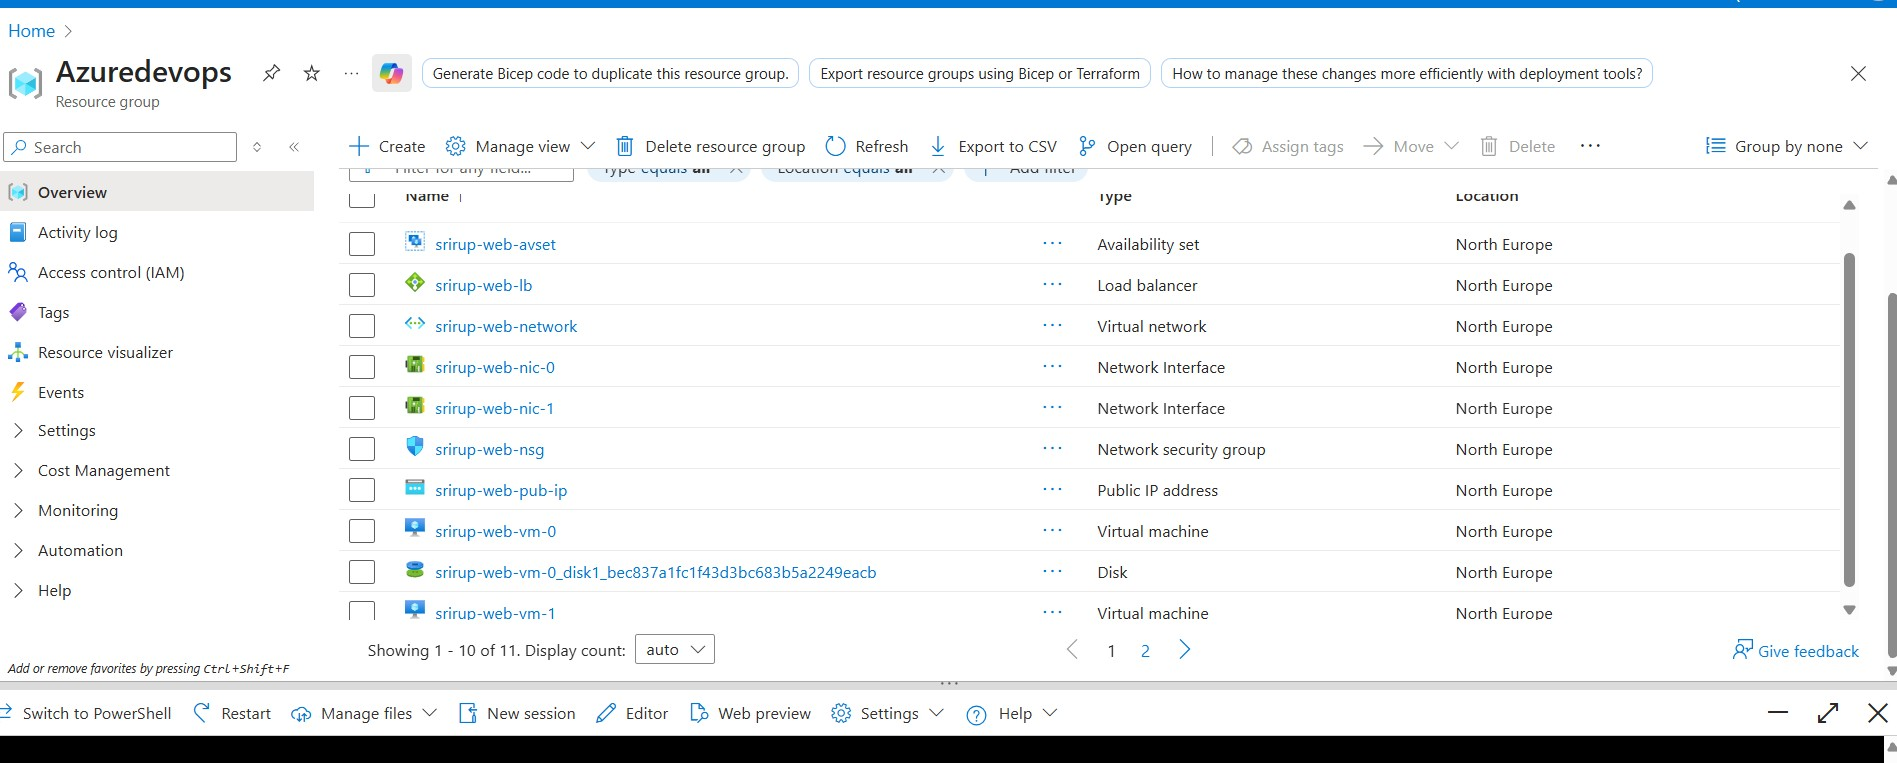
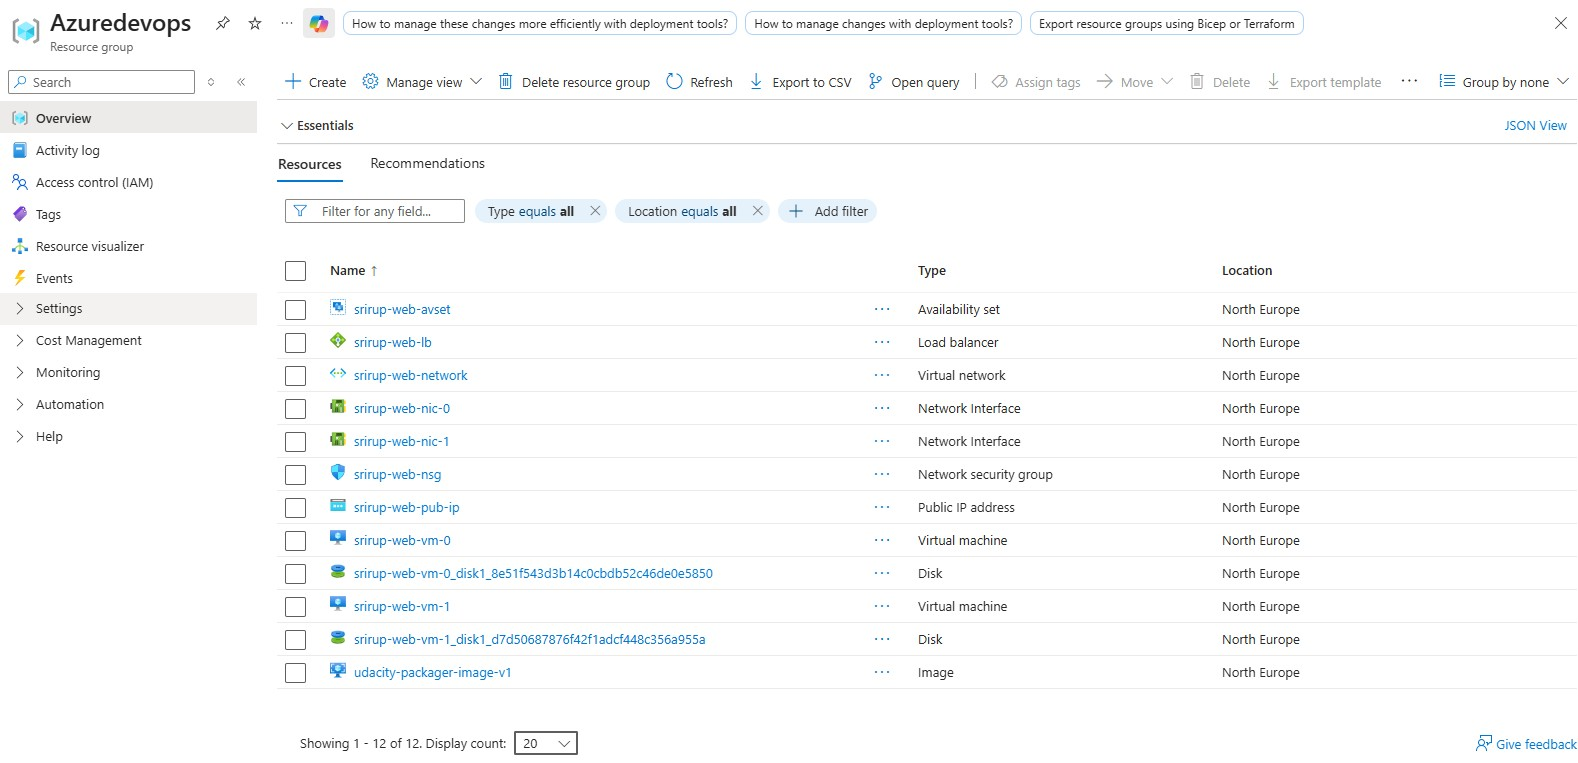
final code with all screeshots

diff --git a/README.md b/README.md
@@ -51,5 +51,6 @@ Update - 03/12/2025 -
 Additionally a terraform .tfvars file can be made to set these values for various environments.
 
 ### Output
-The Terraform output is in solution.plan file.
+Update - 03/12/2025 - 
+The Terraform output is in solution.plan file. Additional screenshots have been added in to show the resources, the app can be accessed and VMs tagged. Refer to the terraform_screenshots dirctory for the images.
 
